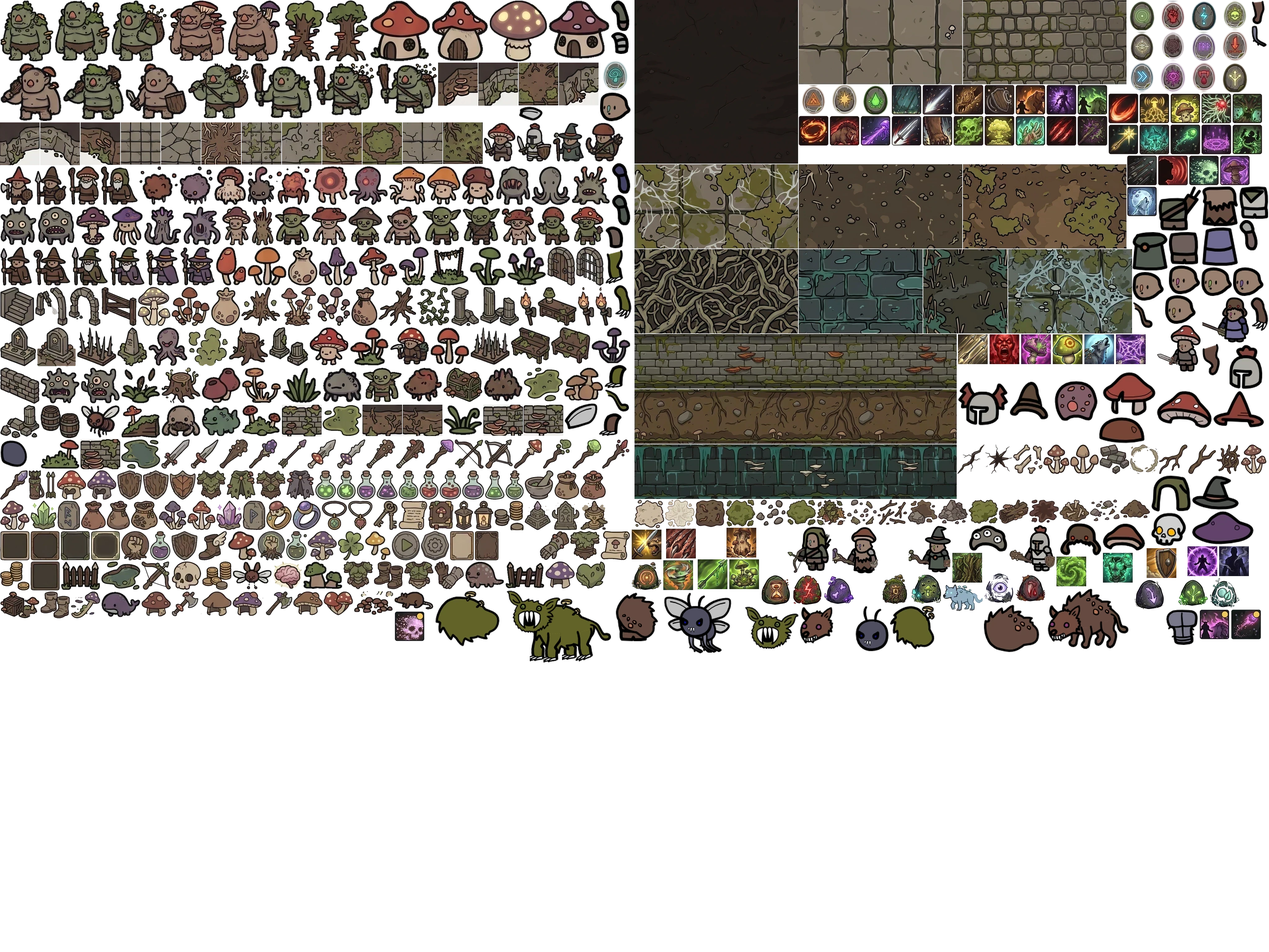
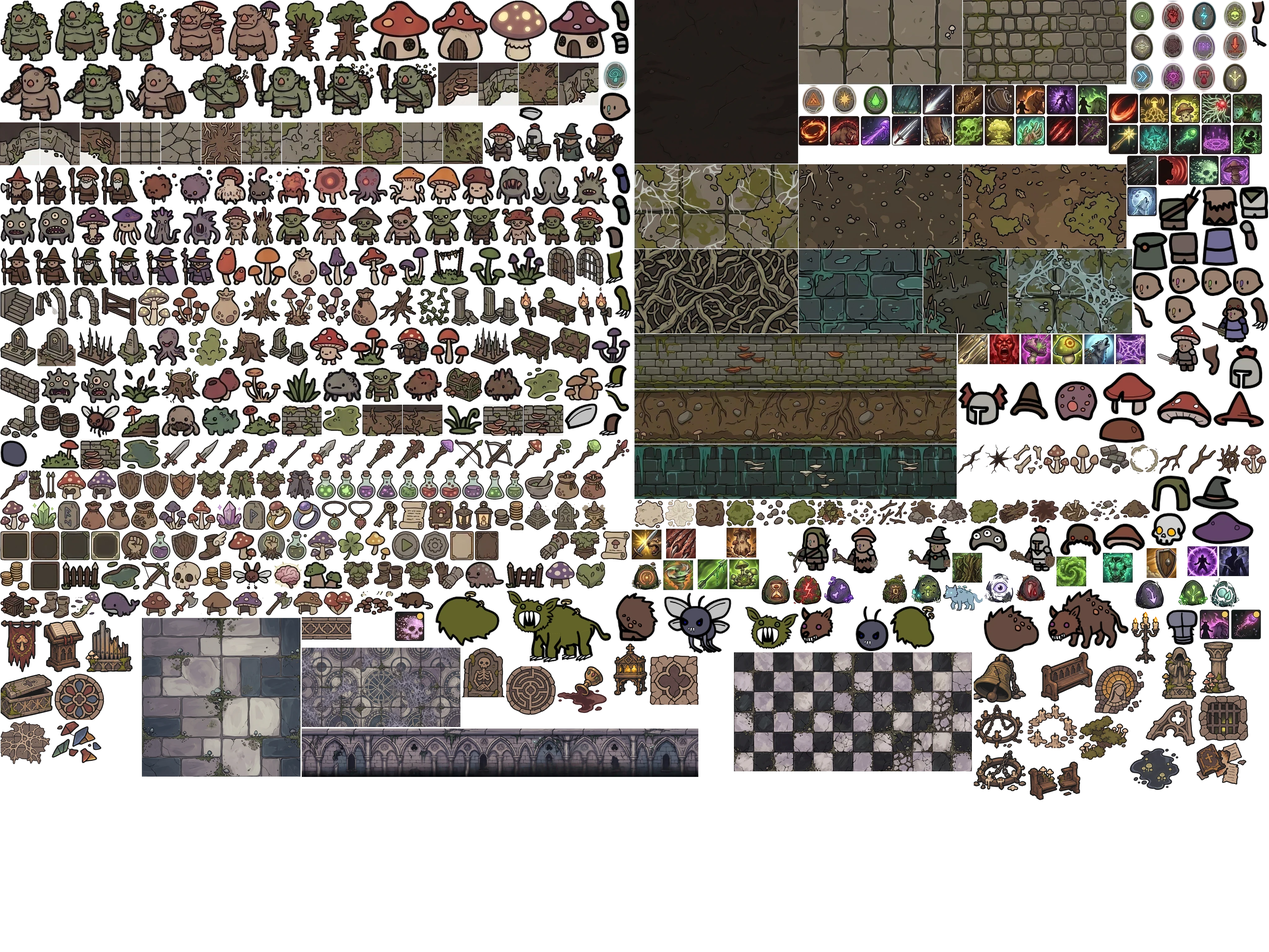
Sporium v18: nový biom Zhnilá katedrála (hloubky 11–15)
- Mozaikové podlahy, gotické zdi, lavice, svícny, sochy, sarkofágy, varhany, zvony
- Barevné světelné sloupy z neviditelných vitráží
- Utopené mycelium posunuto na 16–20
- Fixtura v17 pro kontrolu savů

Claude-Session: https://claude.ai/code/session_014gXEbxcWT2qEz4p9M3WnE4

Changed region(s): [[0.0, 0.625, 1.0, 0.8438]]

diff --git a/docs/game/lib/dungeon.js b/docs/game/lib/dungeon.js
@@ -107,18 +107,22 @@ export function generate(depth, seed, opt={}){
   // glow shrooms + decor
   for(const r of rooms){ const n=Math.floor(r.w*r.h/14)+R.int(0,2);
     for(let k=0;k<n;k++){ const p=randIn(r); if(!p) continue; const glow=R.chance(0.22);
-      if(glow){ put({type:'glow',x:p[0],y:p[1],spr:R.pick(['glowshroom','deco_shroom12','deco_shroom10']),block:false,light:R.pick([[0.55,0.9,0.4],[0.5,0.7,1.0],[0.85,0.5,1.0]]),lr:3,deco:true}); }
-      else { const blocky=interior(p[0],p[1])&&R.chance(0.35); const spr=R.pick(biome.deco); put({type:'deco',x:p[0],y:p[1],spr,block:blocky&&['pillar','pillars','barrels','crate','deadtree','stump','stump2','grave','obelisk','bench'].includes(spr),deco:true}); } } }
+      if(glow&&biome.id==='cathedral'&&R.chance(0.6)){ const cand=R.chance(0.7); put({type:'glow',x:p[0],y:p[1],spr:cand?'cath_candelabra':'cath_reliquary',block:interior(p[0],p[1]),light:cand?[1,0.7,0.38]:[1,0.78,0.35],lr:cand?4:3,deco:true}); }
+      else if(glow){ put({type:'glow',x:p[0],y:p[1],spr:R.pick(['glowshroom','deco_shroom12','deco_shroom10']),block:false,light:R.pick([[0.55,0.9,0.4],[0.5,0.7,1.0],[0.85,0.5,1.0]]),lr:3,deco:true}); }
+      else { const blocky=interior(p[0],p[1])&&R.chance(0.35); const spr=R.pick(biome.deco); put({type:'deco',x:p[0],y:p[1],spr,block:blocky&&['pillar','pillars','barrels','crate','deadtree','stump','stump2','grave','obelisk','bench','cath_pew','cath_pew_broken','cath_candelabra','cath_pillar','cath_statue','cath_lectern','cath_sarcophagus','cath_organ','cath_reliquary','cath_bell'].includes(spr),deco:true}); } } }
   // pools
   for(let k=0;k<R.int(1,4);k++){ const r=R.pick(rooms.slice(1)); const p=randIn(r); if(p) put({type:'pool',x:p[0],y:p[1],spr:biome.id==='drowned'?'pool_water':'pool_poison',block:false,hazard:biome.id!=='drowned',flat:true}); }
   // chests, altar, shrine
   for(let k=0;k<R.int(1,3);k++){ const r=R.pick(rooms.slice(1)); const p=randIn(r,interior); if(p) put({type:'chest',x:p[0],y:p[1],spr:R.chance(0.7)?'crate':'barrels',block:true,small:true}); }
   if(boss||R.chance(0.45)){ const r=R.pick(rooms.slice(1)); const p=randIn(r,interior); if(p) put({type:'altar',x:p[0],y:p[1],spr:'altar',block:true,light:[0.6,1,0.5],lr:3}); }
   if(R.chance(0.5)){ const r=R.pick(rooms.slice(1)); const p=randIn(r,interior); if(p) put({type:'shrine',x:p[0],y:p[1],spr:'shrine',block:true,used:false,light:[0.7,0.5,1],lr:3}); }
+  // cathedral: coloured light falling through unseen stained-glass windows
+  if(biome.shafts) for(const r of rooms){ if(r.w*r.h<16||!R.chance(0.75)) continue; for(let k=0;k<(r.w*r.h>40?2:1);k++){ const p=randIn(r); if(!p||props.some(q=>q.x===p[0]&&q.y===p[1])) continue;
+    const col=R.pick([[0.95,0.3,0.32],[0.35,0.5,1.0],[1.0,0.78,0.3],[0.45,0.95,0.55],[0.75,0.4,1.0]]); props.push({type:'shaft',x:p[0],y:p[1],spr:R.chance(0.5)?'decal_28':'decal_32',flat:true,decal:true,rot:R.range(0,6.28),sc:0.85,ox:0,oy:0,flip:false,shaft:true,light:col.map(v=>v*1.6),lr:4,ph:R.range(0,6.28)}); } }
   // floor decals (flat, non-blocking) to break texture repetition
-  const ROT=new Set([0,1,2,3,4,7,9,12,14,20,21,22,25]);
+  const ROT=new Set([0,1,2,3,4,7,9,12,14,20,21,22,25,28,31,32,36,38,39,41,42]);
   for(let y=1;y<H-1;y++) for(let x=1;x<W-1;x++){ const i=I(x,y); if(!t[i]) continue; const inRoom=room[i]>=0;
-    if(R.chance(inRoom?0.085:0.04)&&!props.some(p=>p.x===x&&p.y===y)){ const di=R.pick(biome.decals); props.push({type:'decal',x,y,spr:'decal_'+di,flat:true,decal:true,rot:ROT.has(di)?R.range(0,6.28):0,sc:R.range(0.55,0.9),ox:R.range(-0.18,0.18),oy:R.range(-0.18,0.18),flip:R.chance(0.5)}); } }
+    if(R.chance((inRoom?0.085:0.04)*(biome.shafts?1.25:1))&&!props.some(p=>p.x===x&&p.y===y)){ const di=R.pick(biome.decals); props.push({type:'decal',x,y,spr:'decal_'+di,flat:true,decal:true,rot:ROT.has(di)?R.range(0,6.28):0,sc:R.range(0.55,0.9),ox:R.range(-0.18,0.18),oy:R.range(-0.18,0.18),flip:R.chance(0.5)}); } }
   // monster spawn points
   const spawns=[];
   const dens=depth<=1?24:depth<=3?20:17;

diff --git a/docs/game/lib/data.js b/docs/game/lib/data.js
@@ -2,6 +2,7 @@
 export const BIOMES=[
   {id:'halls', name:'Výtrusné síně', floors:['tex_halls_a','tex_halls_b','tex_halls_c'], wall:'wall_halls', decals:[0,1,2,3,4,5,6,7,8,9,10,12,13,14,21], ambient:[0.05,0.055,0.07], spore:[0.85,0.95,0.55], deco:['deco_shroom1','deco_shroom4','deco_shroom9','deco_grass1','shroom_cluster','rubble','pillar','barrels','crate','sack','bench','roots']},
   {id:'roots', name:'Hnijící kořeny', floors:['tex_roots_a','tex_roots_b','tex_roots_c'], wall:'wall_roots', decals:[2,3,4,11,15,16,17,18,19,20,22,23,24,25,26,27], ambient:[0.06,0.045,0.04], spore:[1.0,0.7,0.45], deco:['deadtree','stump','stump2','roots','vines','shroom_roots','deco_log','deco_shroom6','deco_shroom7','deco_bush','spore_pile']},
+  {id:'cathedral', name:'Zhnilá katedrála', floors:['tex_cath_a','tex_cath_b','tex_cath_c'], wall:'wall_cath', decals:[28,29,30,31,32,33,35,36,37,38,39,40,41,42,43,2,4], ambient:[0.055,0.048,0.072], spore:[0.85,0.75,1.0], deco:['cath_pew','cath_pew','cath_pew_broken','cath_candelabra','cath_pillar','cath_statue','cath_lectern','cath_sarcophagus','cath_chandelier','cath_organ','cath_reliquary','cath_banner','cath_bell','deco_shroom10'], shafts:true},
   {id:'drowned', name:'Utopené mycelium', floors:['tex_drowned_a','tex_drowned_b','tex_drowned_c'], wall:'wall_drowned', decals:[0,1,2,3,4,7,8,9,12,21,22], ambient:[0.035,0.06,0.07], spore:[0.6,1.0,0.85], deco:['deco_reeds','deco_grass3','deco_shroom12','deco_shroom11','vines','pillars','deco_shroom10','deco_shroom13','deco_shroom14']},
 ];
 export const biomeFor=d=>BIOMES[Math.floor((d-1)/5)%BIOMES.length];

diff --git a/docs/game/lib/render.js b/docs/game/lib/render.js
@@ -60,6 +60,9 @@ export class SceneRenderer{
     // additive fx
     R.layer('add');
     for(const pr of g.props){ if(!g.isVis(pr.x,pr.y)) continue;
+      if(pr.shaft){ const c=pr.light.map(v=>v/1.6), fl=0.85+Math.sin(time*0.7+pr.ph)*0.15; const fx=pr.x*T+T/2, fy=pr.y*T+T/2;
+        R.glow(fx,fy,T*1.1,c,0.26*fl); R.q(fx-T*0.2,fy-T*4.0,T*1.3,T*4.4,0,0,1,1,c[0],c[1],c[2],0.2*fl,2,-0.2); R.q(fx-T*0.05,fy-T*3.5,T*0.7,T*3.8,0,0,1,1,1,0.95,0.9,0.09*fl,2,-0.2);
+        if(rng.chance(dt*3)) g.fx.push({type:'p',x:fx+rng.range(-T*0.4,T*0.4),y:fy-rng.range(0,T*2),vx:rng.range(-4,4),vy:rng.range(4,12),c:[c[0]*0.9+0.1,c[1]*0.9+0.1,c[2]*0.9+0.1],s:rng.range(2,4),life:2.2,max:2.2}); continue; }
       if(pr.type==='walltorch'||(pr.type==='brazier'&&pr.lit)){ const fx=pr.x*T+T/2, fy=pr.wall?pr.y*T+T*0.55:pr.y*T+T*0.25; R.glow(fx,fy,T*0.55*(1+Math.sin(time*11+pr.x)*0.08),[1,0.55,0.2],0.65); R.glow(fx,fy,T*1.6,[1,0.45,0.15],0.18);
         if(rng.chance(dt*14)) g.fx.push({type:'p',x:fx+rng.range(-5,5),y:fy,vx:rng.range(-8,8),vy:-rng.range(30,60),c:[1,0.6,0.2],s:rng.range(3,6),life:0.7,max:0.7}); }
       if(pr.type==='pillar'&&pr.state!=='done'){ R.glow(pr.x*T+T/2,pr.y*T+T*0.3,T*(pr.state==='active'?1.6:1.0)*(1+Math.sin(time*(pr.state==='active'?6:2))*0.12),[0.5,1,0.4],pr.state==='active'?0.45:0.25); }

diff --git a/docs/game/lib/news.js b/docs/game/lib/news.js
@@ -1,5 +1,9 @@
 // Novinky – nejnovější nahoře. Při každém nasazení přidej záznam (v = rostoucí číslo verze).
 export const NEWS=[
+  {v:18, d:'9. 11. 2026', t:'Nový biom: Zhnilá katedrála', i:[
+    'Hloubky 11–15 tě zavedou do <b>Zhnilé katedrály</b>: mozaikové a šachovnicové podlahy, gotické oblouky, lavice, svícny, sochy světců, sarkofágy, varhany a padlé zvony.',
+    'Ze stropu dopadá barevné světlo neviditelných vitráží a svícny s relikviáři hřejí teplým světlem.',
+    'Utopené mycelium se posunulo na hloubky 16–20.']},
   {v:17, d:'9. 11. 2026', t:'Rychlá hniloba', i:[
     '<b>Jed</b> působí rychleji: trvá poloviční dobu, celkově dává o 15 % víc a první tik zasáhne hned při zásahu. Už nemusíš kličkovat, než nepřítel vytiká.',
     '<b>Hniloba oslabuje</b>: každý stack jedu sníží poškození monstra o 6 % (nejvýš −30 %). Uvidíš to nad jeho životem.',
